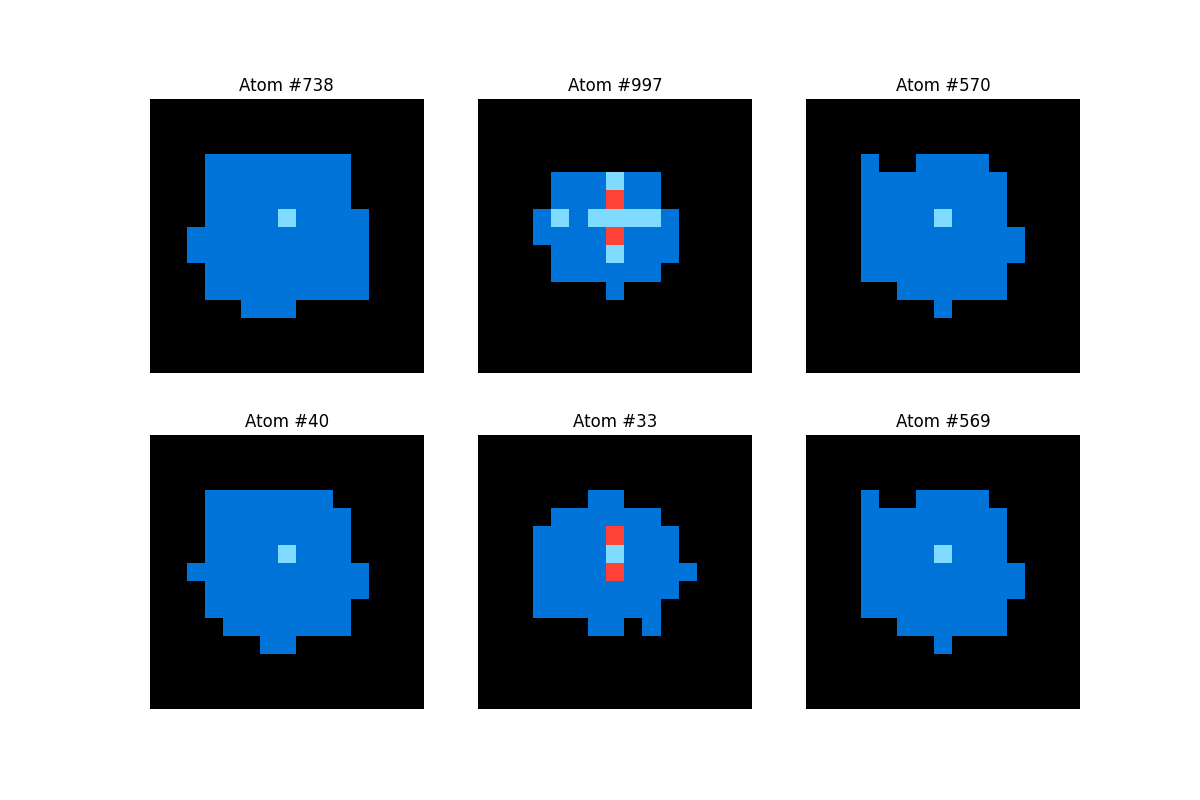
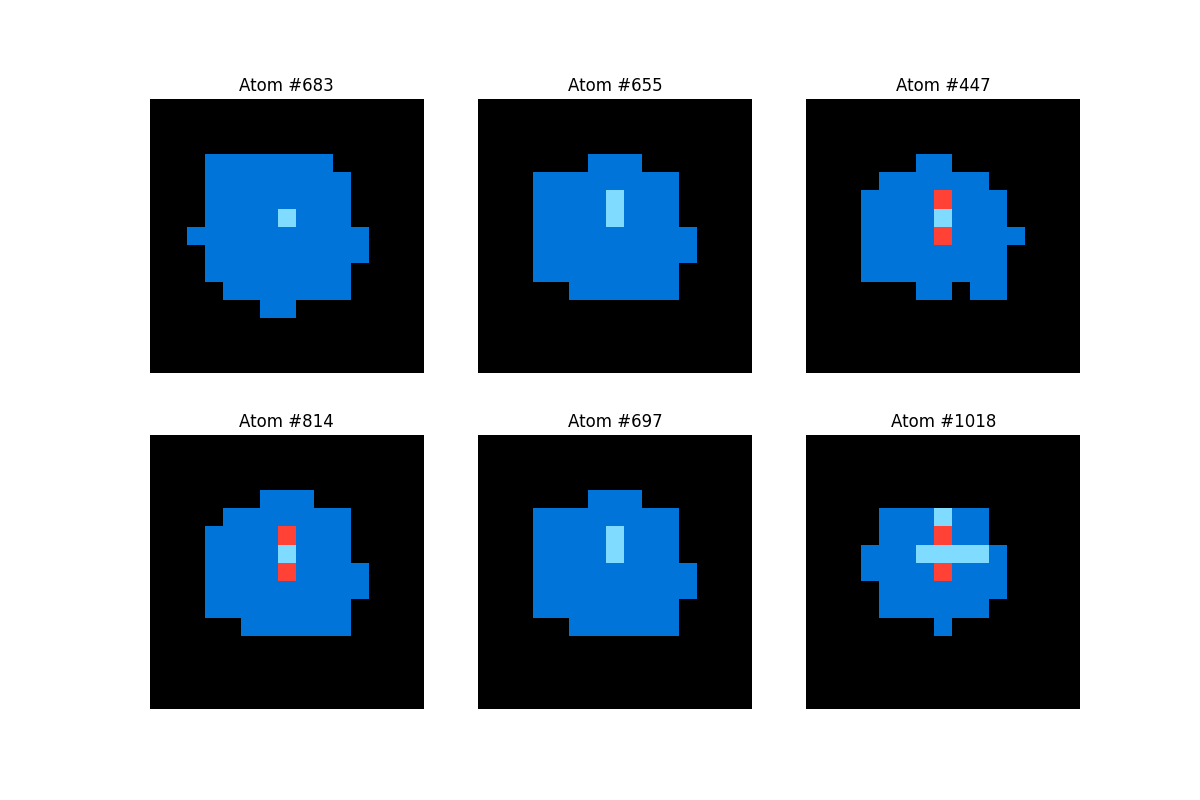
just NMF components to intial the codebook

diff --git a/tools/analyze_arc_basis.py b/tools/analyze_arc_basis.py
@@ -18,7 +18,6 @@ def analyze_basis(library_path, n_components=1024):
     print("Deduplicating by Binary Geometry...")
     unique_geometries = []
     seen_masks = set()
-    
     for i in range(tensors.shape[0]):
         mask = (tensors[i] > 0).astype(np.uint8)
         rows = np.any(mask, axis=1)
@@ -27,7 +26,6 @@ def analyze_basis(library_path, n_components=1024):
         rmin, rmax = np.where(rows)[0][[0, -1]]
         cmin, cmax = np.where(cols)[0][[0, -1]]
         cropped = mask[rmin:rmax+1, cmin:cmax+1]
-        
         h = hash(cropped.tobytes())
         if h not in seen_masks:
             seen_masks.add(h)
@@ -35,7 +33,7 @@ def analyze_basis(library_path, n_components=1024):
             
     unique_geometries = np.array(unique_geometries)
     n_samples = unique_geometries.shape[0]
-    print(f"Found {n_samples} unique geometric primitives. Running 1024-component NMF...")
+    print(f"Found {n_samples} unique geometric primitives.")
     
     X = np.zeros((n_samples, 2700))
     for i in range(n_samples):
@@ -49,23 +47,19 @@ def analyze_basis(library_path, n_components=1024):
                 X[i, base_idx + 10] = r / 14.0
                 X[i, base_idx + 11] = c / 14.0
                 
-    # Using Mu solver with slightly less sparsity to allow for 1024 components to spread out
-    nmf = NMF(
-        n_components=n_components, 
-        init='random', 
-        solver='mu', 
-        alpha_W=0.05, 
-        alpha_H=0.05, 
-        random_state=42, 
-        max_iter=500
-    )
+    print(f"Running Signal-Boosted NMF ({n_components} components)...")
+    nmf = NMF(n_components=n_components, init='random', solver='mu', random_state=42, max_iter=500)
     W = nmf.fit_transform(X)
     H = nmf.components_
     
+    # SIGNAL BOOSTING: Force every atom to have a max value of 1.0
+    print("Boosting signals and normalizing atoms...")
     for i in range(n_components):
         atom = H[i]
-        if np.max(atom) > 0:
-            H[i] = atom / (np.max(atom) + 1e-8)
+        max_v = np.max(atom)
+        if max_v > 0:
+            # Scale so the structural signal is dominant
+            H[i] = atom / (max_v + 1e-8)
             
     torch.save({
         'basis': torch.from_numpy(H).float(),
@@ -73,22 +67,32 @@ def analyze_basis(library_path, n_components=1024):
         'n_components': n_components
     }, 'arc_data/arc_basis_nmf_1024.pt')
     
-    print("Generating High-Fidelity Preview...")
+    print("Generating High-Visibility Preview...")
     fig, axes = plt.subplots(2, 3, figsize=(12, 8))
-    # Randomly sample 6 atoms from the 1024 to show variety
-    sample_indices = np.random.choice(n_components, 6, replace=False)
+    # Pick 6 non-empty atoms for the preview
+    non_empty = [idx for idx in range(n_components) if np.max(H[idx, :2250]) > 0.1]
+    if len(non_empty) < 6:
+        sample_indices = np.random.choice(n_components, 6, replace=False)
+    else:
+        sample_indices = np.random.choice(non_empty, 6, replace=False)
+        
     for i, idx in enumerate(sample_indices):
         ax = axes[i//3, i%3]
         atom = H[idx].reshape(15, 15, 12)
         color_data = atom[:, :, :10]
         intensities = np.max(color_data, axis=-1)
+        
+        # Adaptive Threshold: Pick top 5% of active pixels
+        thresh = np.percentile(intensities, 95)
         grid = np.argmax(color_data, axis=-1)
-        grid[intensities <= 0.05] = 0
+        # Snap to color only if it's significant relative to the atom's peak
+        grid[intensities < max(0.05, thresh * 0.5)] = 0
+        
         ax.imshow(grid, cmap=cmap, vmin=0, vmax=9)
-        ax.set_title(f"Atom #{idx}")
+        ax.set_title(f"Atom #{idx} (Boosted)")
         ax.axis('off')
     plt.savefig('artifacts/arc_basis_nmf_preview.png')
-    print("1024-component preview saved.")
+    print("Ready. Dashboard will now show clear atoms.")
 
 if __name__ == "__main__":
     analyze_basis('arc_data/primitive_library.pt')
